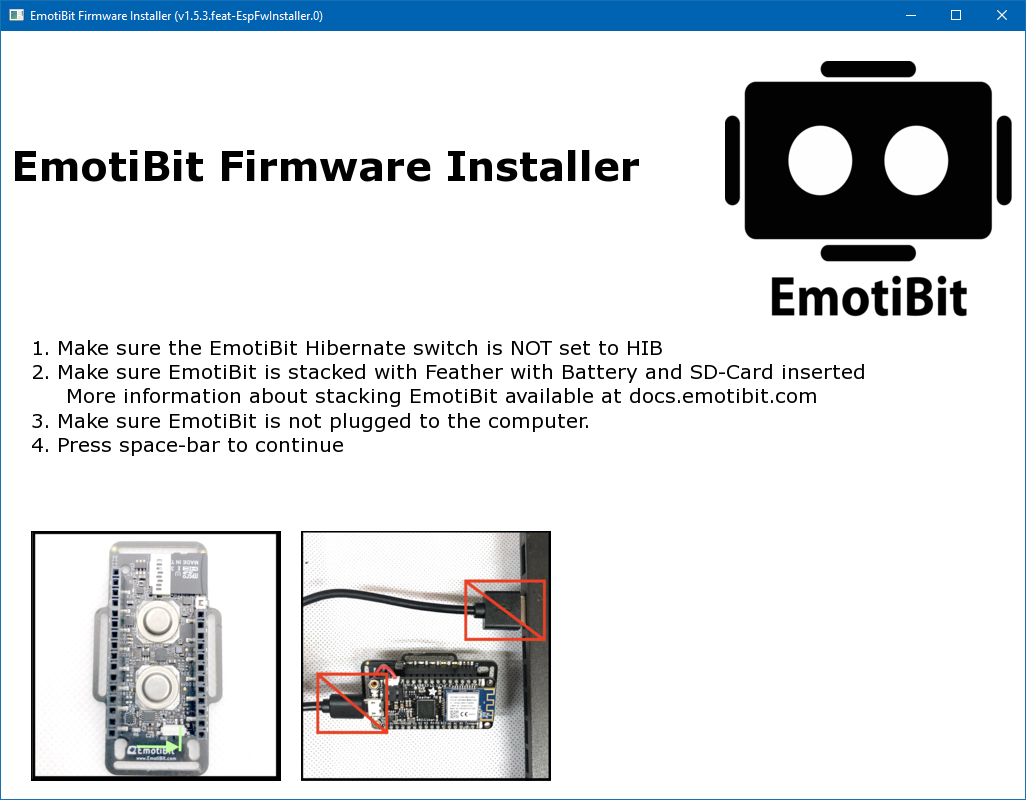
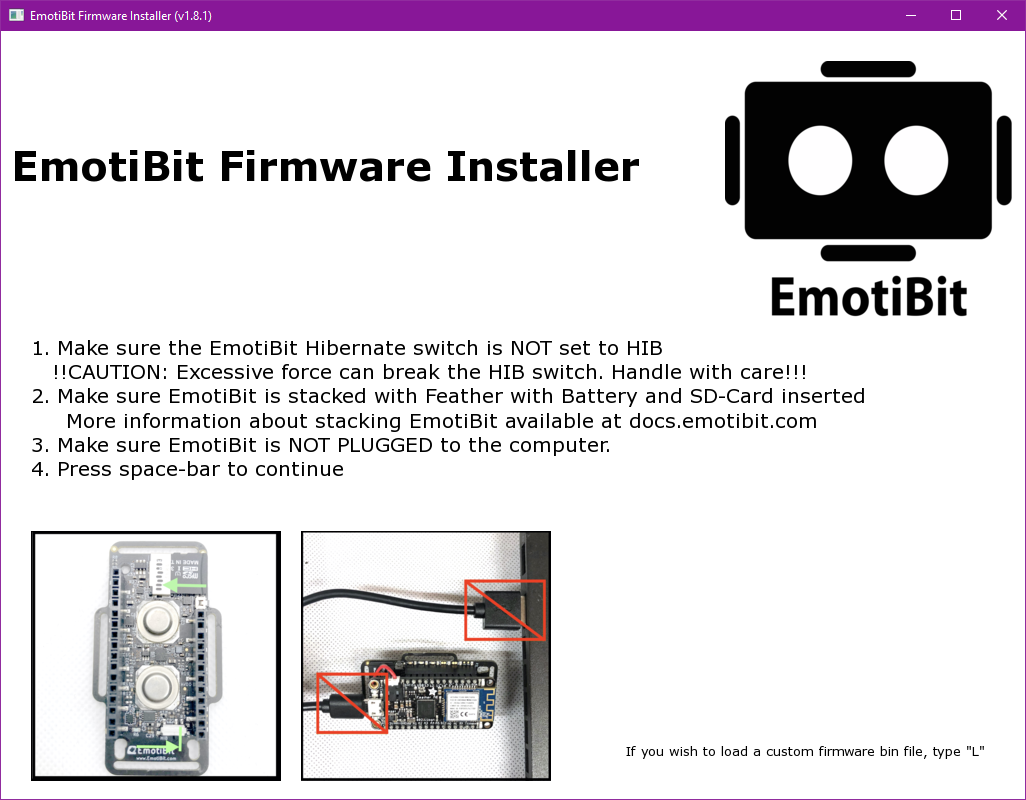
adding firmware installer instructions to load custom firmware

diff --git a/Getting_Started.md b/Getting_Started.md
@@ -245,6 +245,21 @@ get one to start using EmotiBit. You can grab [Feather M0 WiFi](https://www.adaf
 - After you start the application, follow the on-screen instructions to complete installing the firmware.
 - Screengrab from `EmotiBitFirmwareInstaller`
   - <img src="./assets/EmotiBitFirmwareInstaller-step1.png" width="600">
+- <details><summary> Installing custom firmware</summary>
+
+  - The `EmotiBit FirmwareInstaller` installs the stock firmware provided in the software bundle.
+    - Each software release bundles specific firmware version that can be found in the [software release notes](https://github.com/emotibit/ofxemotibit/releases/latest). 
+  - If you wish to install a custom firmware or an older firmware release, you can do so using the "Load" provision in the Firmware Installer.
+  - To do so, 
+    - Press `L` on the first screen on the Firmware Installer (You may also notice that the Firmware Installer has a footnote with the same prompt)
+    - Choose the file (`.bin`) you want to install on EmotiBit
+    - After selecting the file, you will return to the original Firmware Installer screen
+    - Continue with normal installation process
+  - For example, you may grab an earlier release from the [EmotiBit firmware release page](https://github.com/EmotiBit/EmotiBit_FeatherWing/releases), and install that firmware using the `Load` function in the EmotiBit Installer.
+  - Alternatively, you can write your own custom firmware and create a binary. You can then use the Firmware Installer to install that binary.
+  - **WARNING**: Make sure that the firmware you are trying to install has been written for the correct board version. 
+Installing incompatible firmware may lead to un-expected behavior, or worse, may brick your device.
+  </details>
 
 ## For Linux and Advanced Users
 - <details><summary> Installing Emotibit Firmware on Feather M0 WiFi</summary>
